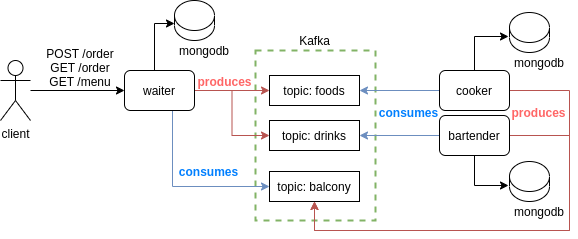
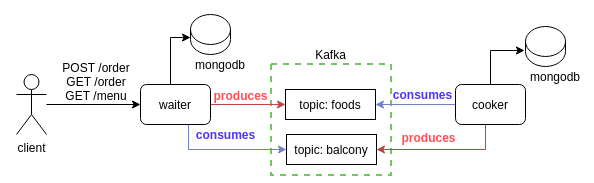
updating readme

diff --git a/README.md b/README.md
@@ -5,8 +5,8 @@ No padrão Saga temos que para um determinado microsserviço as informações de
 
 ## Cenário - Padaria
 
-Para exemplificar o padrão foi escolhido o domínio de uma padaria. Neste domínio temos três personas sendo [Garçons (waiter)](./waiter), [Cozinheiros (cooker)](./cooker) e [Barmen (bartender)](./bartender).
-Neste cenário, os garçons respondem quais são os itens do menu, realizam os pedidos e verificam se os pedidos estão prontos. Os cozinheiros e barmen recebem os pedidos e os produzem, aguardando o tempo necessário para preparo de cada item.
+Para exemplificar o padrão foi escolhido o domínio de uma padaria. Neste domínio temos duas personas sendo [Garçons (waiter)](./waiter) e [Cozinheiros (cooker)](./cooker).
+Neste cenário, os garçons respondem quais são os itens do menu, realizam os pedidos e verificam se os pedidos estão prontos. Os cozinheiros recebem os pedidos e os produzem, aguardando o tempo necessário para preparo de cada item.
 Uma vez que cada item do pedido foi enviado para o preparo, é possível perguntar ao garçom se o pedido já está pronto. Caso esteja, o estado do pedido será pronto, caso contrário, pendente. 
 
 ## Arquitetura
@@ -17,7 +17,7 @@ Abaixo segue a arquitura implementada.
 
 Conforme pode ser visto, foram criados diferentes microsserviços para cada persona. Optamos por utilizar o [Apache Kafka](https://kafka.apache.org/) para gerir as mensagens entre os microsserviços e o [MongoDd](https://www.mongodb.com/) como banco de dados. 
 
-Todos os microsserviços foram implementados em [Python](https://www.python.org/). Porém, como apenas o microsserviço [waiter](./waiter) possui interface com o usuário, ele possui uma interface web construida utilizando [Flask](https://flask.palletsprojects.com/en/1.1.x/). Já os demais microsserviços ([cooker](./cooker) e [bartender](./bartender)) são apenas consumidores, logo não possuindo interface web.
+Todos os microsserviços foram implementados em [Python](https://www.python.org/). Porém, como apenas o microsserviço [waiter](./waiter) possui interface com o usuário, ele possui uma interface web construida utilizando [Flask](https://flask.palletsprojects.com/en/1.1.x/). Já o microsserviço ([cooker](./cooker) é apenas consumidor, logo não possuindo interface web.
 
 ## Rodando a stack
 
